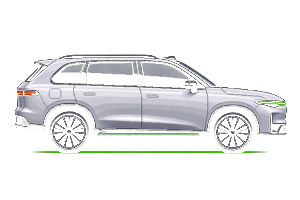
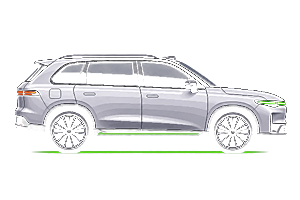
Animate start band, show rescue HUD, sharpen vehicle set

diff --git a/index.html b/index.html
@@ -11,7 +11,7 @@
   <meta name="description" content="LEAPMOTOR TISCHTENNIS-CHALLENGE – Tischtennis Breakout, Leapmotor aufladen, Ghost-Car überholen. Event Activation Mini-Game.">
   <title>LEAPMOTOR TISCHTENNIS-CHALLENGE</title>
   <!-- Fonts: Montserrat lokal via @font-face in style.css – kein CDN -->
-  <link rel="stylesheet" href="css/style.css?v=20260728g">
+  <link rel="stylesheet" href="css/style.css?v=20260728h">
 </head>
 <body>
 
@@ -70,11 +70,16 @@
 
     <!-- Fahrzeugband auf dem eigentlichen Startscreen -->
     <div class="start-vehicle-band" aria-label="Leapmotor Fahrzeugmodelle">
-      <img src="assets/vehicles/t03.png?v=20260728f" alt="T03">
-      <img src="assets/vehicles/b05.png?v=20260728f" alt="B05">
-      <img src="assets/vehicles/b03x.png?v=20260728f" alt="B03X">
-      <img src="assets/vehicles/b10.png?v=20260728f" alt="B10">
-      <img src="assets/vehicles/c10.png?v=20260728f" alt="C10">
+      <div class="start-vehicle-track">
+        <img src="assets/vehicles/t03.png?v=20260728h" alt="T03">
+        <img src="assets/vehicles/b05.png?v=20260728h" alt="B05">
+        <img src="assets/vehicles/b03x.png?v=20260728h" alt="B03X">
+        <img src="assets/vehicles/b10.png?v=20260728h" alt="B10">
+        <img src="assets/vehicles/c10.png?v=20260728h" alt="C10">
+        <img src="assets/vehicles/t03.png?v=20260728h" alt="T03">
+        <img src="assets/vehicles/b05.png?v=20260728h" alt="B05">
+        <img src="assets/vehicles/b03x.png?v=20260728h" alt="B03X">
+      </div>
     </div>
 
     <div class="start-cta">
@@ -195,6 +200,9 @@
           <span class="life-heart life-full">❤</span>
           <span class="life-heart life-full">❤</span>
           <span class="life-heart life-full">❤</span>
+        </div>
+        <div id="second-chance-hud" class="second-chance-hud" aria-live="polite" aria-label="Ball-Retter nicht aktiv">
+          <span class="second-chance-icon" aria-hidden="true">🛡</span><span class="second-chance-count">1</span>
         </div>
         <div class="hud-label">LEBEN</div>
       </div>
@@ -677,7 +685,7 @@
         <img src="assets/vehicles/b10.png" class="attract-car attract-car-2" alt="">
         <img src="assets/vehicles/b05.png" class="attract-car attract-car-3" alt="">
         <img src="assets/vehicles/t03.png" class="attract-car attract-car-4" alt="">
-        <img src="assets/vehicles/b03x.png?v=20260728f" class="attract-car attract-car-5" alt="">
+        <img src="assets/vehicles/b03x.png?v=20260728h" class="attract-car attract-car-5" alt="">
       </div>
       <h2 class="attract-headline">JETZT SPIELEN &amp; GEWINNEN!</h2>
       <p class="attract-sub">Tippe um zu starten</p>
@@ -715,7 +723,7 @@
 
 <script src="js/supabase-config.js?v=20260716b"></script>
 <script src="js/api.js?v=20260728d"></script>
-<script src="js/app.js?v=20260728f"></script>
+<script src="js/app.js?v=20260728h"></script>
 
 <!-- Landscape QR-Panel rechts -->
 <div class="landscape-qr-panel right" aria-hidden="true">

diff --git a/leaderboard.html b/leaderboard.html
@@ -462,11 +462,11 @@
   <!-- Footer (Autostreifen) -->
   <div id="tv-footer">
     <div id="tv-footer-cars">
-      <img src="assets/vehicles/c10.png?v=20260728f" class="tv-footer-car" style="animation-duration:7s;animation-delay:0s" alt="">
-      <img src="assets/vehicles/b10.png?v=20260728f" class="tv-footer-car" style="animation-duration:10s;animation-delay:-3.5s" alt="">
-      <img src="assets/vehicles/b05.png?v=20260728f" class="tv-footer-car" style="animation-duration:8.5s;animation-delay:-6s" alt="">
-      <img src="assets/vehicles/t03.png?v=20260728f" class="tv-footer-car" style="animation-duration:12s;animation-delay:-1.5s" alt="">
-      <img src="assets/vehicles/b03x.png?v=20260728f" class="tv-footer-car" style="animation-duration:9.5s;animation-delay:-4.5s" alt="">
+      <img src="assets/vehicles/c10.png?v=20260728h" class="tv-footer-car" style="animation-duration:7s;animation-delay:0s" alt="">
+      <img src="assets/vehicles/b10.png?v=20260728h" class="tv-footer-car" style="animation-duration:10s;animation-delay:-3.5s" alt="">
+      <img src="assets/vehicles/b05.png?v=20260728h" class="tv-footer-car" style="animation-duration:8.5s;animation-delay:-6s" alt="">
+      <img src="assets/vehicles/t03.png?v=20260728h" class="tv-footer-car" style="animation-duration:12s;animation-delay:-1.5s" alt="">
+      <img src="assets/vehicles/b03x.png?v=20260728h" class="tv-footer-car" style="animation-duration:9.5s;animation-delay:-4.5s" alt="">
     </div>
     <div id="tv-footer-qr">
       <img src="https://api.qrserver.com/v1/create-qr-code/?size=200x200&color=67C23A&bgcolor=0a0a0f&data=https%3A%2F%2Fleapmotor.tt.kevingarre.de&format=png&qzone=2" alt="QR">

diff --git a/css/style.css b/css/style.css
@@ -408,12 +408,21 @@ button { border: none; background: none; cursor: pointer; font-family: inherit; 
   border-top: 1px solid rgba(103,194,58,0.25);
   border-bottom: 1px solid rgba(103,194,58,0.25);
 }
-.start-vehicle-band img {
-  width: 20%;
-  max-width: 110px;
+.start-vehicle-track {
+  display: flex;
+  align-items: center;
+  width: max-content;
+  animation: start-band-drive 22s linear infinite;
+}
+.start-vehicle-track img {
+  flex: 0 0 110px;
   height: 54px;
   object-fit: contain;
   filter: drop-shadow(0 0 6px rgba(103,194,58,0.35));
+}
+@keyframes start-band-drive {
+  from { transform: translateX(0); }
+  to { transform: translateX(-440px); }
 }
 
 /* Start CTA */
@@ -580,6 +589,20 @@ button { border: none; background: none; cursor: pointer; font-family: inherit; 
   gap: 4px;
   align-items: center;
 }
+.second-chance-hud {
+  display: none;
+  align-items: center;
+  justify-content: center;
+  gap: 2px;
+  height: 20px;
+  color: #67C23A;
+  font-size: 13px;
+  font-weight: 800;
+  filter: drop-shadow(0 0 5px rgba(103,194,58,0.8));
+}
+.second-chance-hud.active { display: flex; }
+.second-chance-icon { font-size: 15px; line-height: 1; }
+.second-chance-count { font-size: 11px; }
 .life-heart {
   font-size: 18px;
   transition: transform 0.2s, opacity 0.3s;

diff --git a/js/app.js b/js/app.js
@@ -2660,9 +2660,14 @@ function activateVehiclePowerUp(key, blkX, blkY) {
 
 function updateSecondChanceUI() {
   const label = document.getElementById('second-chance-status');
+  const hud = document.getElementById('second-chance-hud');
   if (label) {
     label.textContent = state.secondChanceActive ? '🛡 B03X: BALL-RETTER BEREIT' : '';
     label.classList.toggle('active', state.secondChanceActive);
+  }
+  if (hud) {
+    hud.classList.toggle('active', state.secondChanceActive);
+    hud.setAttribute('aria-label', state.secondChanceActive ? 'Ball-Retter bereit: eine Rettung verfügbar' : 'Ball-Retter nicht aktiv');
   }
 }
 
@@ -4425,7 +4430,7 @@ document.addEventListener('DOMContentLoaded', function() {
       vehicleSpriteBounds[key] = getOpaqueImageBounds(img);
     };
     img.onerror = function() { img.loaded = false; };
-    img.src = 'assets/vehicles/' + key + '.png?v=20260728f';
+    img.src = 'assets/vehicles/' + key + '.png?v=20260728h';
     vehicleSprites[key] = img;
   });
 
